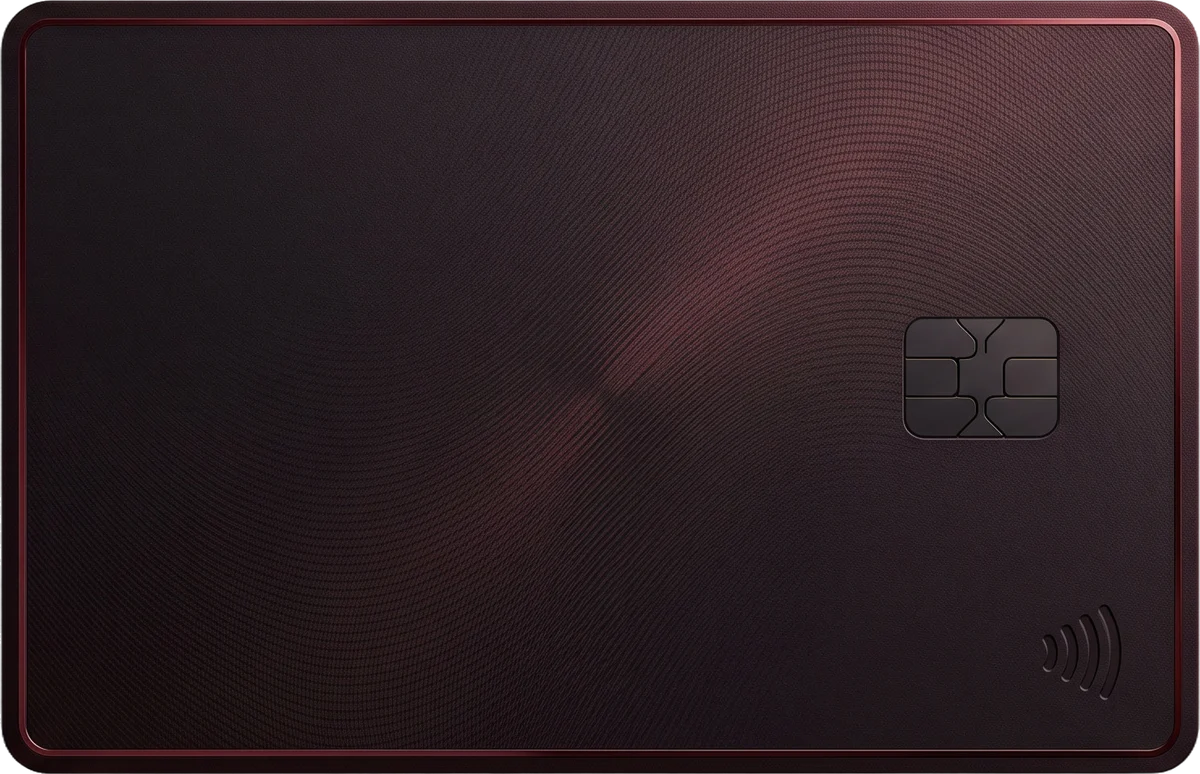
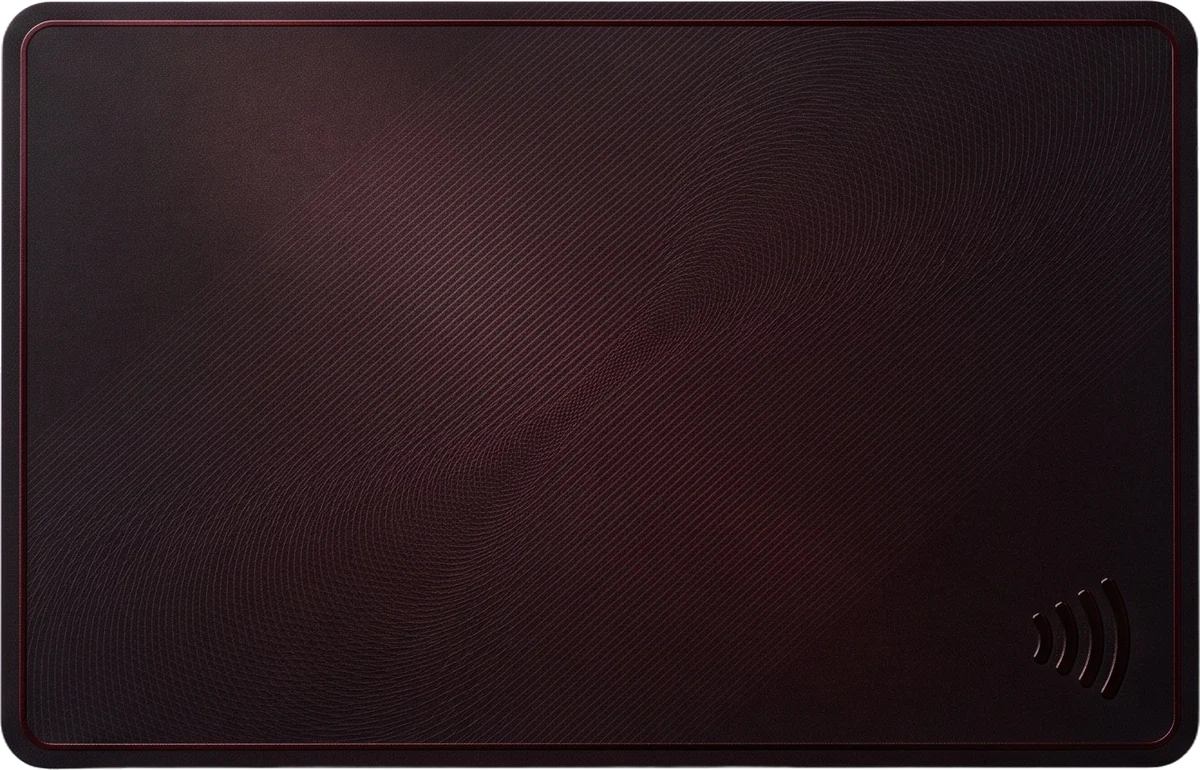
feat: card fronts without a contact chip
The four card faces are regenerated with a plain surface and the NFC wave only, since NFC chips
sit inside a card; the delivered WebP files and the image log follow (D46).

diff --git a/docs/image-log.md b/docs/image-log.md
@@ -4,16 +4,17 @@ Every picture the site uses, where it came from and on what terms, so any of the
 
 ## Generated imagery
 
-Magnific project "Linkist", model Google Nano Banana 2 (`imagen-nano-banana-2-flash`), 3:2 at 2K, 75 credits per generation and 3 per background removal; 1,236 credits spent in total on 11 September 2026 (16 generations, 12 removals). The first batch generated the mark into the card from the real brand file as a reference; the second batch (the one in use, D37) generates the faces without any logo and the site composites the mark in HTML at one size, so nothing on a card is generated as a logo or as text. Masters in `public/assets/masters/cards/` (git-ignored, every raw render beside them in `cards-raw/`), delivered by `pnpm imagery` as `public/assets/cards/<material>-1x.webp` and `-2x.webp`, backs as `<material>-back-*.webp`.
+Magnific project "Linkist", model Google Nano Banana 2 (`imagen-nano-banana-2-flash`), 3:2 at 2K, 75 credits per generation and 3 per background removal; 1,668 credits spent in total on 11 September 2026 (20 generations, 16 removals, 4 erase attempts). The first batch generated the mark into the card from the real brand file as a reference; the second batch (the one in use, D37) generates the faces without any logo and the site composites the mark in HTML at one size, so nothing on a card is generated as a logo or as text. Masters in `public/assets/masters/cards/` (git-ignored, every raw render beside them in `cards-raw/`), delivered by `pnpm imagery` as `public/assets/cards/<material>-1x.webp` and `-2x.webp`, backs as `<material>-back-*.webp`.
 
 | Slot | File | Prompt summary | Result | Refinements |
 | --- | --- | --- | --- | --- |
-| NFC card front, PVC | cards/pvc | Matte black PVC card, straight on, dark chip top-right, embossed NFC wave bottom-right, top-left and lower-left empty, no logo, no text | In use (second batch) | Background removed |
-| NFC card front, wood | cards/wood | The same in cherry wood, warm reddish-brown, straight grain, satin oiled finish, engraved wave | In use | Background removed |
-| NFC card front, metal | cards/metal | The same in brushed gunmetal stainless steel, etched wave | In use | Background removed |
-| NFC card front, Founders Circle | cards/founders | The same in deep crimson-black PVC with a fine guilloche pattern and a thin polished dark-red border | In use | Background removed |
+| NFC card front, PVC | cards/pvc | Matte black PVC card, straight on, the face plain except an embossed NFC wave bottom-right, no chip, no logo, no text | In use (third batch, D46) | Background removed |
+| NFC card front, wood | cards/wood | The same in cherry wood, warm reddish-brown, straight grain, satin oiled finish, engraved wave, no chip | In use (third batch) | Background removed |
+| NFC card front, metal | cards/metal | The same in brushed gunmetal stainless steel, etched wave, no chip | In use (third batch) | Background removed |
+| NFC card front, Founders Circle | cards/founders | The same in deep crimson-black PVC with a fine guilloche pattern and a thin polished dark-red border, no chip | In use (third batch) | Background removed |
 | NFC card back, four materials | cards/<material>-back | The back of each card: plain, a small NFC wave exactly centred, a thin engraved line across the lower third, no chip, no stripe, no logo, no text | In use | Background removed |
 | Section swirl | backgrounds/swirl-2 | Abstract background: one large smooth fluid swirl of glossy liquid ribbons in near-black, charcoal and mid grey with silver-white highlights, 16:9, no text | In use behind the alternate section grounds, blurred (D40); two alternates (a second monochrome take and one with a crimson ribbon) kept as masters, 225 credits for the three | Delivered at 1920 px as WebP by hand (sharp resize), masters in `masters/backgrounds/` |
+| Second batch, four fronts with a contact chip | cards-raw/*-v2-raw.png | As the fronts above with a dark square contact chip top-right | Superseded on the owner's note that NFC chips are hidden inside a card; a content-aware erase of the chip on the cut-outs (4 attempts, 120 credits) left visible patches, so the fronts were regenerated without it | Not used |
 | First batch, four fronts with the mark generated in | cards-raw/*-raw.png | As the fronts above but with "the red logo mark from the reference image, top-left" | Superseded: the generated marks came out at different sizes; the wood card's first take was pale and was regenerated once | Not used |
 
 Procedure, from the Grownz operating record: a Magnific folder named `Linkist website` with `people`, `3d`, `scenes`, `og` and `articles` inside; model `imagen-nano-banana-2-flash`; people at 3:4 and 2K, objects at 1:1 and 1K; one seed and model per series; the first approved object is the style reference for the rest; masters saved under `public/assets/masters/<kind>/` (git-ignored) the moment the download link arrives, because the links expire; `pnpm imagery` delivers 1x and 2x WebP into `public/assets/<kind>/`; the site resolves each slot at build time, so a delivered file appears on the next build with no code change. The prompts are written out slot by slot in `docs/content-hub.md`.

diff --git a/docs/decision-log.md b/docs/decision-log.md
@@ -49,3 +49,4 @@ One line per decision, newest last. Format: date, decision, why, trade-off noted
 | D43 | 2026-09-11 | The home page has one ground: a single swirl layer behind the whole page that scrolls with the content (blur 34 px, screened, repeating down the page, swaying slowly), and its sections paint no ground of their own; the other pages keep their per-section swirls. First tried fixed to the viewport; the owner preferred it to scroll. | Owner, 11 September: "make the white swirls a bit more blurry and one single background for the entire homepage". | A fixed, blurred, blended layer is one composited surface; the glass cards blur it as they scroll over it. |
 | D44 | 2026-09-11 | The swirl is the hero's alone: an absolute layer behind the hero block that scrolls away with it, fading out at its foot; every other section of the home page keeps the per-section look (D40, D41). The hero is one viewport tall with its content centred and less space above; the phone is a little smaller (250 px, 240 px person slot); the product switcher leads with its tabs at the copy's left edge and the arrows follow. | Owner, 11 September, after seeing the whole-page swirl: "only apply that for hero, rest all same old look"; the phone "a bit smaller"; the switcher's left spacing; "top too much space, hero 100vh is optimal". | The proof points sit inside the viewport-tall block on most screens; on short landscape phones the block grows to fit. |
 | D45 | 2026-09-11 | The swirl appears in the home hero and nowhere else; the alternate section tones on every page return to plain deeper-black gradients. | Owner, 11 September: "I do not need the swirl anywhere else other than the hero." | The blurred, blended pseudo-element per section goes with it, which also removes its paint cost from every long page. |
+| D46 | 2026-09-11 | The card fronts carry no contact chip: the four faces were regenerated with a plain surface and the NFC wave only. | Owner, 11 September: NFC chips are hidden inside a card, so a contact plate misrepresents the product. A content-aware erase of the chip on the existing cut-outs left visible patches on the brushed and grained surfaces, so regeneration was the clean route. | 312 credits for the four renders and removals, 120 for the failed erases; the backs were already plain. |
